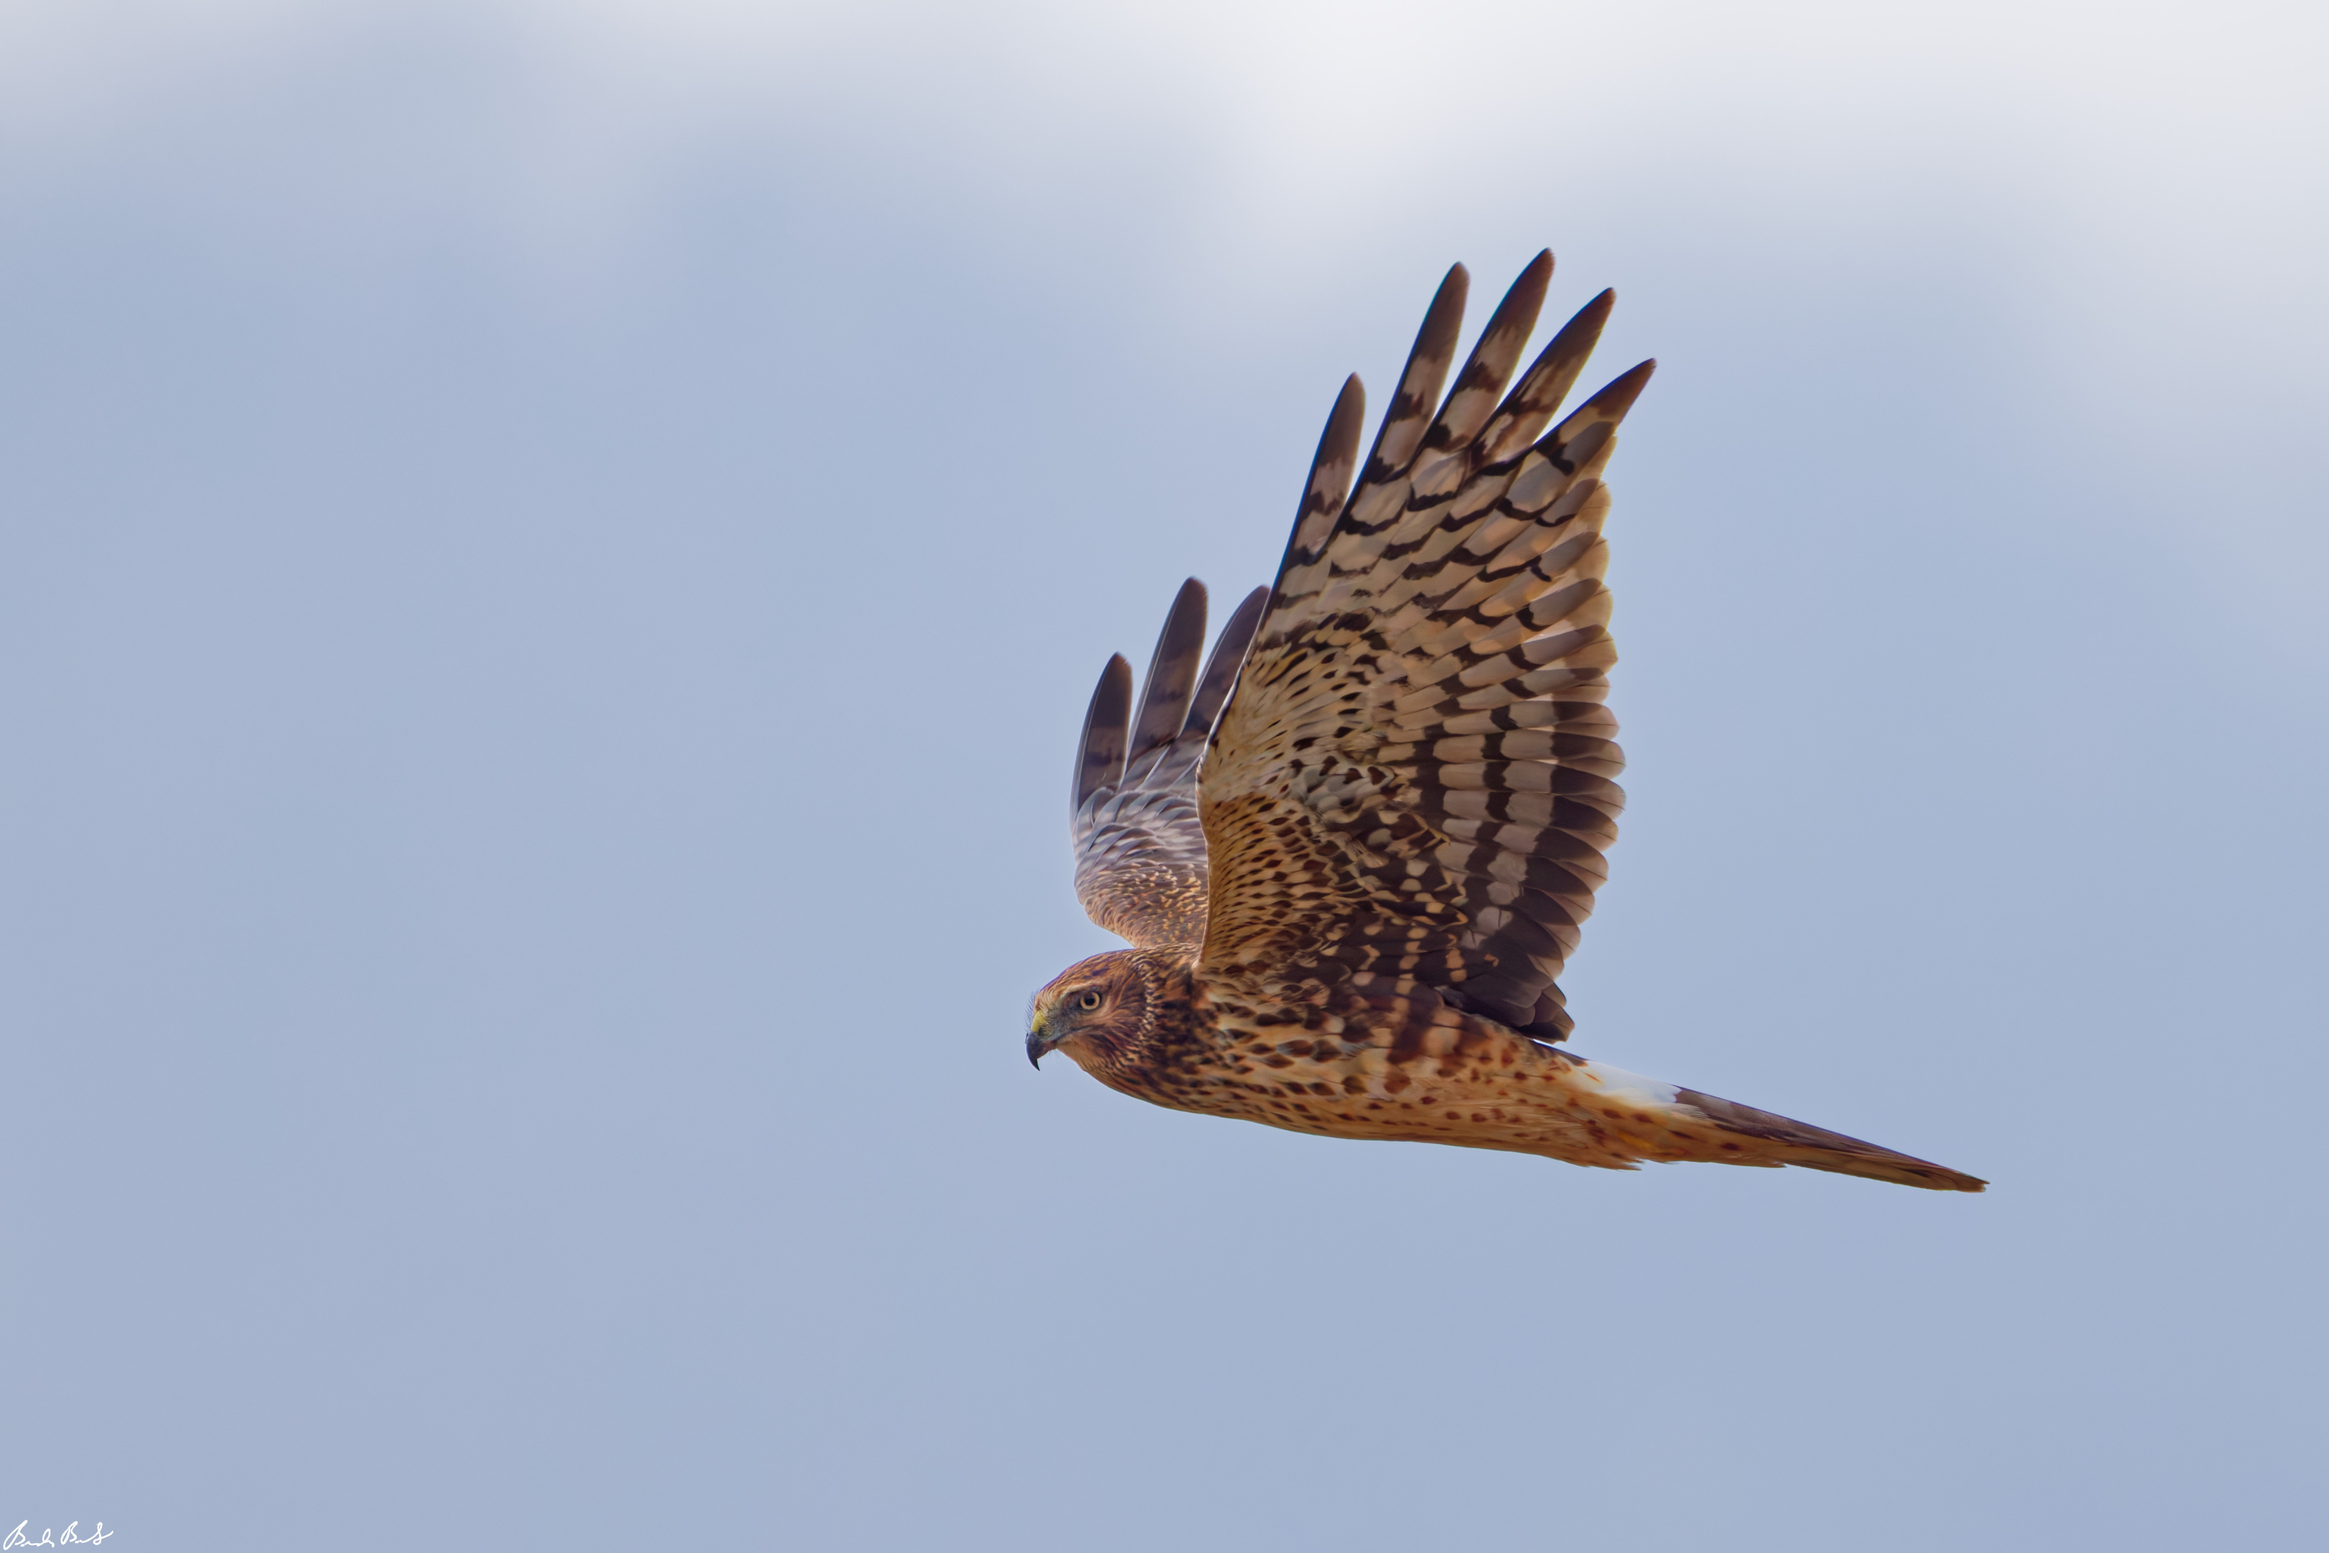
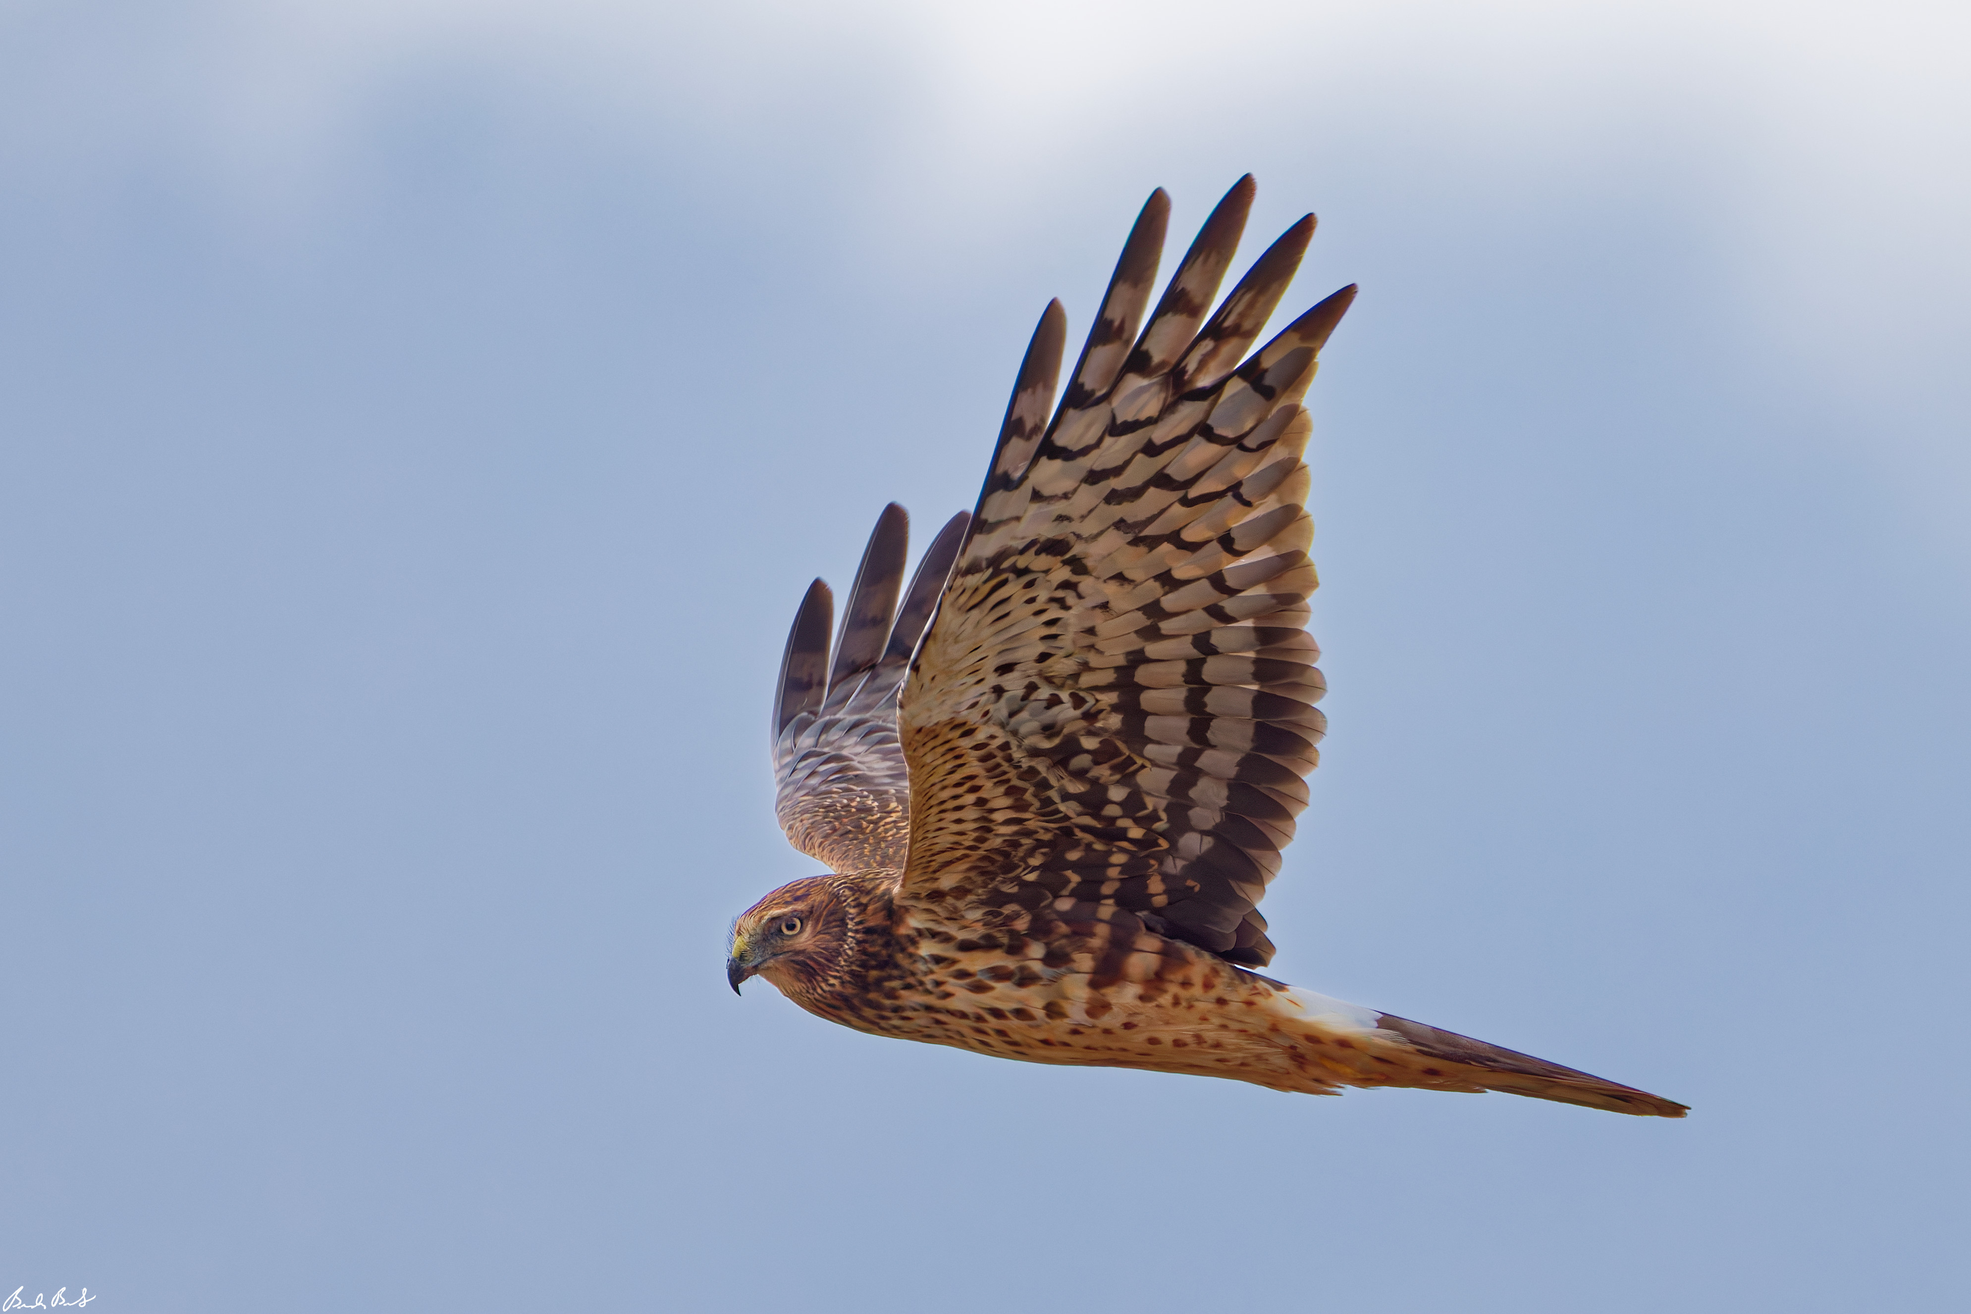
Add new photos: 4Z8A2037_DxO.jpg and 4Z8A2280_DxO.jpg

Changed region(s): [[0.3428, 0.1236, 0.8726, 0.8651], [0.187, 0.0618, 0.2805, 0.1545], [0.0, 0.0, 0.0935, 0.0618]]

diff --git a/photography.html b/photography.html
@@ -73,8 +73,8 @@
       <div class="gallery-layout">
         <aside class="gallery-controls">
           <nav aria-label="Photo categories" class="category-nav">
-          <button aria-pressed="true" class="is-active" data-category="all" type="button">All <span>285</span></button>
-          <button aria-pressed="false" data-category="birds" type="button">Birds <span>245</span></button>
+          <button aria-pressed="true" class="is-active" data-category="all" type="button">All <span>291</span></button>
+          <button aria-pressed="false" data-category="birds" type="button">Birds <span>251</span></button>
           <button aria-pressed="false" data-category="mammals" type="button">Mammals <span>21</span></button>
           <button aria-pressed="false" data-category="places" type="button">Places <span>18</span></button>
           <button aria-pressed="false" data-category="other" type="button">Other <span>1</span></button>
@@ -85,17 +85,18 @@
             <datalist id="species-list">
             <option value="American Black Duck?">1 photo</option>
             <option value="American Coot">2 photos</option>
-            <option value="American Crow">3 photos</option>
+            <option value="American Crow">4 photos</option>
             <option value="American Goldfinch">2 photos</option>
             <option value="American Robin">1 photo</option>
             <option value="American Wigeon">2 photos</option>
-            <option value="Annas Hummingbird">13 photos</option>
+            <option value="Annas Hummingbird">15 photos</option>
             <option value="Bald Eagle">11 photos</option>
             <option value="Barn Swallow">1 photo</option>
             <option value="Belted Kingfisher">12 photos</option>
             <option value="Black-Capped Chickadee">7 photos</option>
             <option value="Black-Crowned Night Heron">1 photo</option>
             <option value="Bonapartes Gull">3 photos</option>
+            <option value="Boring Background">1 photo</option>
             <option value="Brown-Headed Cowbird">1 photo</option>
             <option value="Bushtit">1 photo</option>
             <option value="Canada Goose">6 photos</option>
@@ -125,7 +126,7 @@
             <option value="Marsh Wren">4 photos</option>
             <option value="Merlin">4 photos</option>
             <option value="Northern Flicker">1 photo</option>
-            <option value="Northern Harrier">17 photos</option>
+            <option value="Northern Harrier">19 photos</option>
             <option value="Northern House Wren">1 photo</option>
             <option value="Northern Shoveler">2 photos</option>
             <option value="Northern Shrike">3 photos</option>
@@ -150,7 +151,7 @@
             <option value="White-Crowned Sparrow">2 photos</option>
             <option value="Wood Duck">3 photos</option>
             </datalist>
-            <p aria-live="polite" class="gallery-status" id="gallery-status">285 photos</p>
+            <p aria-live="polite" class="gallery-status" id="gallery-status">291 photos</p>
           </div>
         </aside>
         <div class="photo-gallery">
@@ -179,22 +180,27 @@
           <a data-category="birds" data-label="Harlequin Duck" data-species="Harlequin Duck" href="pics/photos/4Z8A2477_DxO.jpg"><img src="pics/photos/4Z8A2477_DxO.jpg" alt="Harlequin Duck" loading="lazy"></a>
           <a data-category="birds" data-label="Harlequin Duck" data-species="Harlequin Duck" href="pics/photos/4Z8A2462_DxO.jpg"><img src="pics/photos/4Z8A2462_DxO.jpg" alt="Harlequin Duck" loading="lazy"></a>
           <a data-category="birds" data-label="Harlequin Duck" data-species="Harlequin Duck" href="pics/photos/4Z8A2450_DxO.jpg"><img src="pics/photos/4Z8A2450_DxO.jpg" alt="Harlequin Duck" loading="lazy"></a>
+          <a data-category="birds" data-label="American Crow" data-species="American Crow" href="pics/photos/4Z8A2280_DxO.jpg"><img src="pics/photos/4Z8A2280_DxO.jpg" alt="American Crow" loading="lazy"></a>
           <a data-category="birds" data-label="American Crow" data-species="American Crow" href="pics/photos/4Z8A2277_DxO.jpg"><img src="pics/photos/4Z8A2277_DxO.jpg" alt="American Crow" loading="lazy"></a>
           <a data-category="birds" data-label="Mallard" data-species="Mallard" href="pics/photos/4Z8A2204_DxO.jpg"><img src="pics/photos/4Z8A2204_DxO.jpg" alt="Mallard" loading="lazy"></a>
+          <a data-category="birds" data-label="Annas Hummingbird" data-species="Annas Hummingbird" href="pics/photos/4Z8A2037_DxO.jpg"><img src="pics/photos/4Z8A2037_DxO.jpg" alt="Annas Hummingbird" loading="lazy"></a>
           <a data-category="places" data-label="Carkeek Park" data-species="" href="pics/photos/4Z8A2011_DxO.jpg"><img src="pics/photos/4Z8A2011_DxO.jpg" alt="Carkeek Park" loading="lazy"></a>
           <a data-category="places" data-label="Carkeek Park" data-species="" href="pics/photos/4Z8A2005_DxO.jpg"><img src="pics/photos/4Z8A2005_DxO.jpg" alt="Carkeek Park" loading="lazy"></a>
           <a data-category="birds" data-label="Palm Warbler" data-species="Palm Warbler" href="pics/photos/4Z8A2002_DxO.jpg"><img src="pics/photos/4Z8A2002_DxO.jpg" alt="Palm Warbler" loading="lazy"></a>
           <a data-category="birds" data-label="Palm Warbler" data-species="Palm Warbler" href="pics/photos/4Z8A1993_DxO.jpg"><img src="pics/photos/4Z8A1993_DxO.jpg" alt="Palm Warbler" loading="lazy"></a>
           <a data-category="birds" data-label="Palm Warbler" data-species="Palm Warbler" href="pics/photos/4Z8A1963_DxO.jpg"><img src="pics/photos/4Z8A1963_DxO.jpg" alt="Palm Warbler" loading="lazy"></a>
           <a data-category="birds" data-label="Palm Warbler" data-species="Palm Warbler" href="pics/photos/4Z8A1866_DxO.jpg"><img src="pics/photos/4Z8A1866_DxO.jpg" alt="Palm Warbler" loading="lazy"></a>
+          <a data-category="birds" data-label="Northern Harrier" data-species="Northern Harrier" href="pics/photos/4Z8A1857_DxO.jpg"><img src="pics/photos/4Z8A1857_DxO.jpg" alt="Northern Harrier" loading="lazy"></a>
+          <a data-category="birds" data-label="Northern Harrier" data-species="Northern Harrier" href="pics/photos/4Z8A1843_DxO.jpg"><img src="pics/photos/4Z8A1843_DxO.jpg" alt="Northern Harrier" loading="lazy"></a>
           <a data-category="birds" data-label="Northern Harrier" data-species="Northern Harrier" href="pics/photos/4Z8A1839_DxO.jpg"><img src="pics/photos/4Z8A1839_DxO.jpg" alt="Northern Harrier" loading="lazy"></a>
           <a data-category="birds" data-label="Northern Harrier" data-species="Northern Harrier" href="pics/photos/4Z8A1838_DxO.jpg"><img src="pics/photos/4Z8A1838_DxO.jpg" alt="Northern Harrier" loading="lazy"></a>
           <a data-category="birds" data-label="Northern Harrier" data-species="Northern Harrier" href="pics/photos/4Z8A1796_DxO.jpg"><img src="pics/photos/4Z8A1796_DxO.jpg" alt="Northern Harrier" loading="lazy"></a>
           <a data-category="birds" data-label="Northern Harrier" data-species="Northern Harrier" href="pics/photos/4Z8A1779_DxO.jpg"><img src="pics/photos/4Z8A1779_DxO.jpg" alt="Northern Harrier" loading="lazy"></a>
           <a data-category="birds" data-label="Northern Harrier" data-species="Northern Harrier" href="pics/photos/4Z8A1778_DxO.jpg"><img src="pics/photos/4Z8A1778_DxO.jpg" alt="Northern Harrier" loading="lazy"></a>
           <a data-category="birds" data-label="Northern Harrier" data-species="Northern Harrier" href="pics/photos/4Z8A1777_DxO.jpg"><img src="pics/photos/4Z8A1777_DxO.jpg" alt="Northern Harrier" loading="lazy"></a>
+          <a data-category="birds" data-label="Northern Harrier" data-species="Northern Harrier" href="pics/photos/4Z8A1756_DxO.jpg"><img src="pics/photos/4Z8A1756_DxO.jpg" alt="Northern Harrier" loading="lazy"></a>
           <a data-category="birds" data-label="Snow Goose" data-species="Snow Goose" href="pics/photos/4Z8A1353_DxO.jpg"><img src="pics/photos/4Z8A1353_DxO.jpg" alt="Snow Goose" loading="lazy"></a>
-          <a data-category="birds" data-label="Northern Harrier" data-species="Northern Harrier" href="pics/photos/4Z8A0736_DxO.jpg"><img src="pics/photos/4Z8A0736_DxO.jpg" alt="Northern Harrier" loading="lazy"></a>
+          <a data-category="birds" data-label="Boring Background" data-species="Boring Background" href="pics/photos/4Z8A0736_DxO.jpg"><img src="pics/photos/4Z8A0736_DxO.jpg" alt="Boring Background" loading="lazy"></a>
           <a data-category="birds" data-label="Northern Harrier" data-species="Northern Harrier" href="pics/photos/4Z8A0732_DxO.jpg"><img src="pics/photos/4Z8A0732_DxO.jpg" alt="Northern Harrier" loading="lazy"></a>
           <a data-category="birds" data-label="Northern Harrier" data-species="Northern Harrier" href="pics/photos/4Z8A0707_DxO.jpg"><img src="pics/photos/4Z8A0707_DxO.jpg" alt="Northern Harrier" loading="lazy"></a>
           <a data-category="birds" data-label="Northern Harrier" data-species="Northern Harrier" href="pics/photos/4Z8A0373_DxO.jpg"><img src="pics/photos/4Z8A0373_DxO.jpg" alt="Northern Harrier" loading="lazy"></a>
@@ -343,6 +349,7 @@
           <a data-category="birds" data-label="Black-Capped Chickadee" data-species="Black-Capped Chickadee" href="pics/photos/118A5859_DxO.jpg"><img src="pics/photos/118A5859_DxO.jpg" alt="Black-Capped Chickadee" loading="lazy"></a>
           <a data-category="birds" data-label="Annas Hummingbird" data-species="Annas Hummingbird" href="pics/photos/118A5814_DxO.jpg"><img src="pics/photos/118A5814_DxO.jpg" alt="Annas Hummingbird" loading="lazy"></a>
           <a data-category="birds" data-label="Annas Hummingbird" data-species="Annas Hummingbird" href="pics/photos/118A5808_DxO.jpg"><img src="pics/photos/118A5808_DxO.jpg" alt="Annas Hummingbird" loading="lazy"></a>
+          <a data-category="birds" data-label="Annas Hummingbird" data-species="Annas Hummingbird" href="pics/photos/118A5803_DxO.jpg"><img src="pics/photos/118A5803_DxO.jpg" alt="Annas Hummingbird" loading="lazy"></a>
           <a data-category="birds" data-label="Osprey" data-species="Osprey" href="pics/photos/118A5684_DxO.jpg"><img src="pics/photos/118A5684_DxO.jpg" alt="Osprey" loading="lazy"></a>
           <a data-category="birds" data-label="Green Heron" data-species="Green Heron" href="pics/photos/118A5659_DxO.jpg"><img src="pics/photos/118A5659_DxO.jpg" alt="Green Heron" loading="lazy"></a>
           <a data-category="birds" data-label="American Coot" data-species="American Coot" href="pics/photos/118A5617_DxO.jpg"><img src="pics/photos/118A5617_DxO.jpg" alt="American Coot" loading="lazy"></a>
